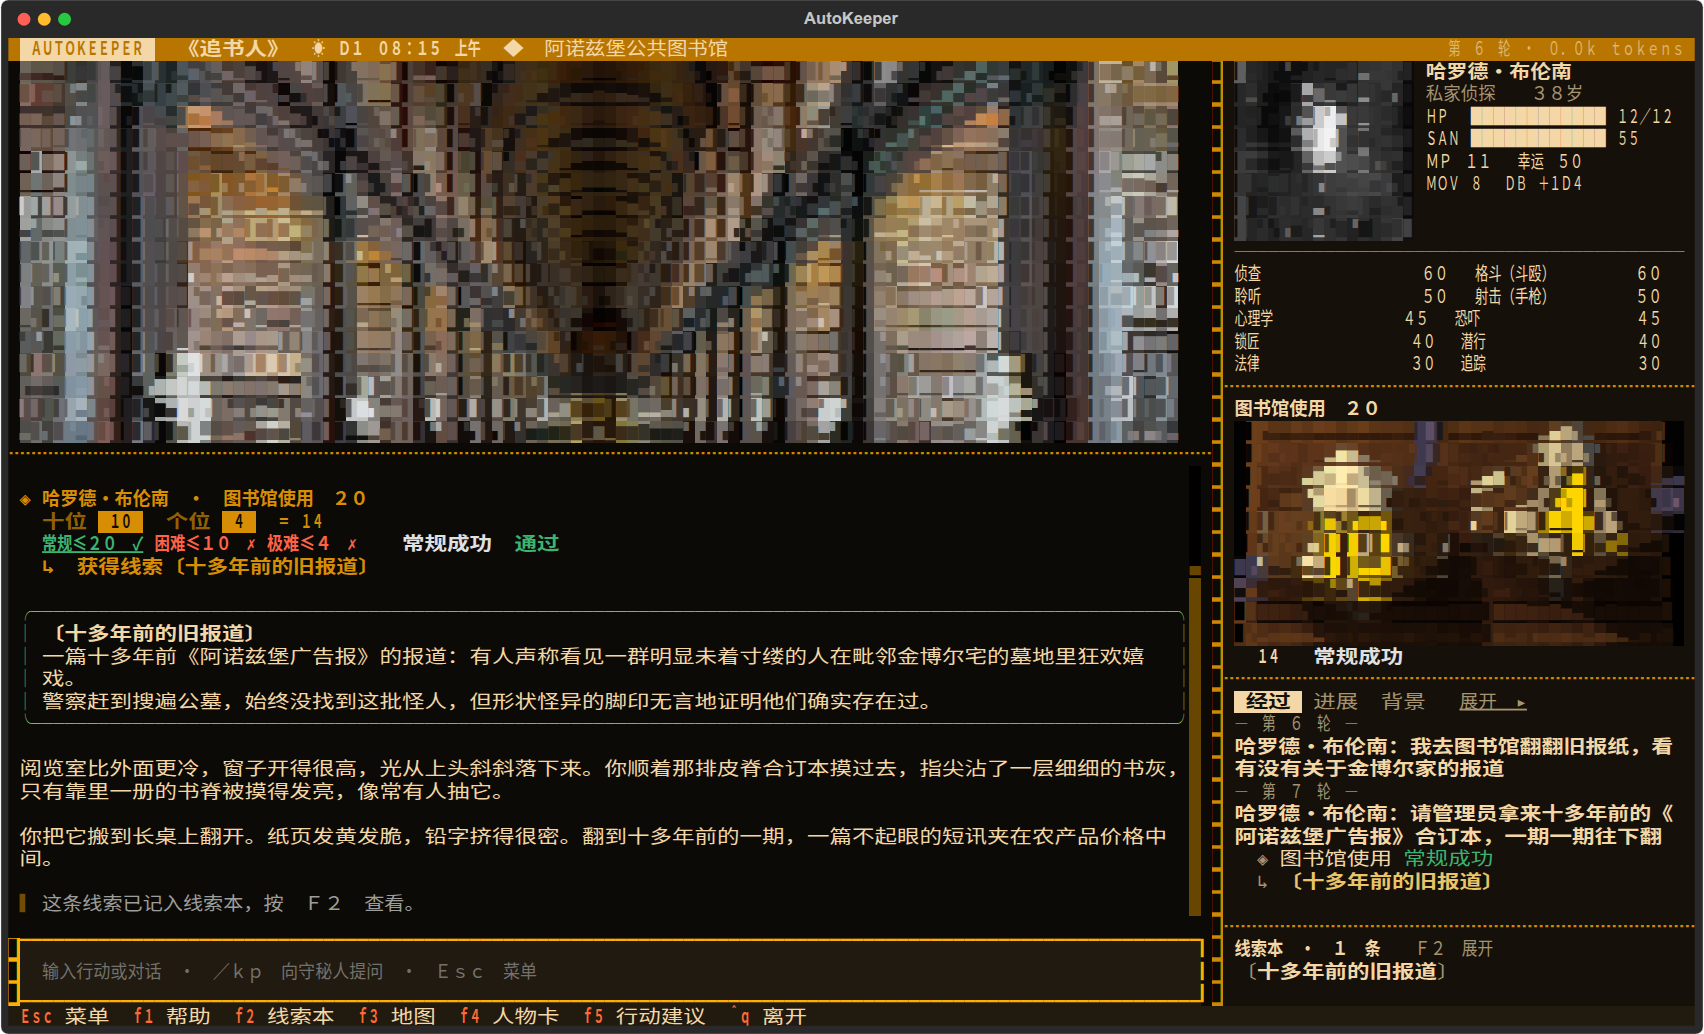
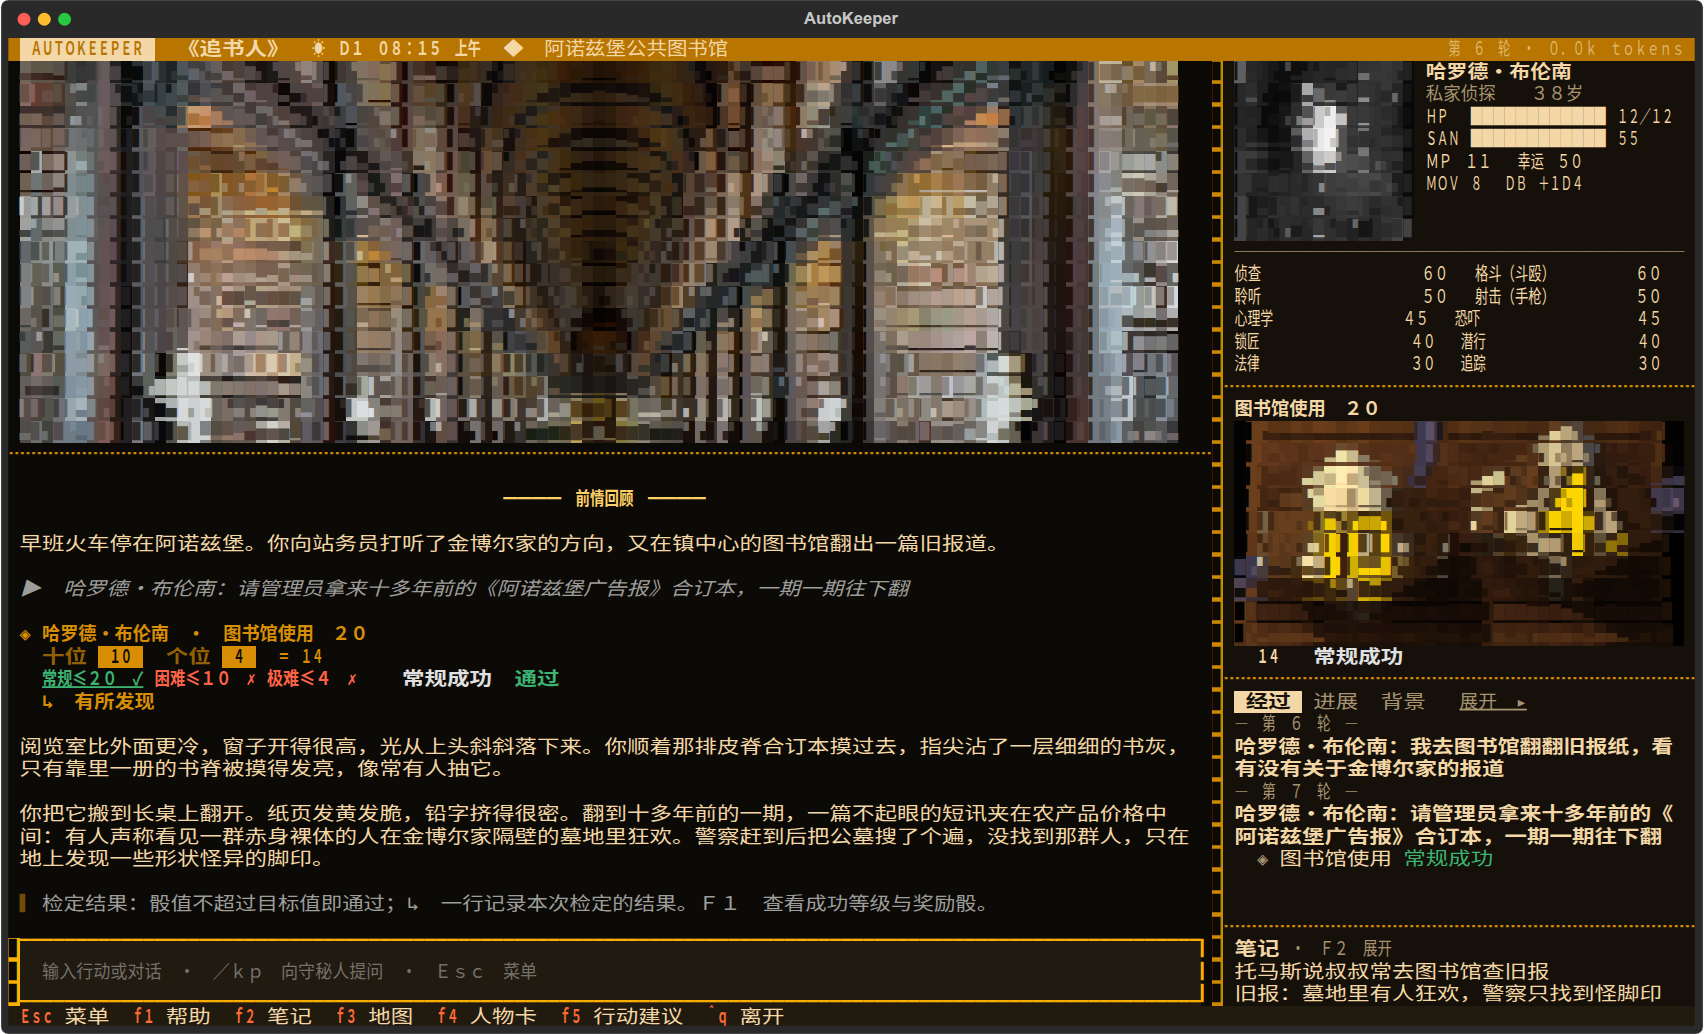
文档：README、玩法说明、展示页与更新日志改写线索与笔记；重拍调查桌面与地图截图，截图脚本改成守秘人讲出旧报内容、右栏是玩家自己的笔记

diff --git a/docs/index.html b/docs/index.html
@@ -27,7 +27,7 @@
             <h2>中文 CoC 7 版终端跑团</h2>
             <p>AutoKeeper 是基于《克苏鲁的呼唤》第 7 版规则的中文终端跑团程序。玩家扮演调查员，以自然语言描述行动；AI 担任守秘人，负责场景叙述、NPC 扮演与检定裁定。支持单人游玩、AI 同伴和多人联机。</p>
             <p>开局叙事结合模组背景与调查员经历展开，调查过程保留主线之外的日常活动与探索空间。《追书人》以早班火车抵达阿诺兹堡为起点：托马斯的家位于小镇尽头的公墓旁，玩家可在途中问路、用餐，或前往图书馆查阅旧报。对于原作未覆盖的行动，守秘人可即兴补充人物、地点和支线，并将其写入本局记录；严格模式则限制对原作的扩展。</p>
-            <p>检定采用物理模拟的十面骰，由玩家操作；消耗幸运与孤注一掷也由玩家决定，调查陷入僵局时可以进行灵感检定。系统按规则结算理智、伤势和成长，记录已发现的线索、手稿及人物信息，并在每回合结束后自动保存进度。</p>
+            <p>检定采用物理模拟的十面骰，由玩家操作；消耗幸运与孤注一掷也由玩家决定，调查陷入僵局时可以进行灵感检定。系统按规则结算理智、伤势和成长；查到的内容由守秘人在叙述中讲出，玩家在笔记里自行记录；手稿与人物信息随存档保存，每回合结束后自动保存进度。</p>
             <h3>战斗与追逐</h3>
             <p>战斗与追逐按第 7 版规则逐轮结算。玩家从列出的行动中选择，也可以自行描述；被攻击时的应对可以预先设定，危险升高时才会询问。追逐沿地图上的路线进行，包括险阻、路障、躲藏与跟丢。伤势、弹药和掉落的武器记入本局的世界记录。</p>
             <h3>彩色字符画与场景表现</h3>

diff --git a/dev/screenshots.py b/dev/screenshots.py
@@ -166,12 +166,15 @@ async def _developer(app, pilot, screen, m):
 
 LIBRARY = ("阅览室比外面更冷，窗子开得很高，光从上头斜斜落下来。你顺着那排皮脊合订本摸过去，指尖沾了一层细细的书灰，"
            "只有靠里一册的书脊被摸得发亮，像常有人抽它。\n\n"
-           "你把它搬到长桌上翻开。纸页发黄发脆，铅字挤得很密。翻到十多年前的一期，一篇不起眼的短讯夹在农产品价格中间。")
+           "你把它搬到长桌上翻开。纸页发黄发脆，铅字挤得很密。翻到十多年前的一期，一篇不起眼的短讯夹在农产品价格中间："
+           "有人声称看见一群赤身裸体的人在金博尔家隔壁的墓地里狂欢。警察赶到后把公墓搜了个遍，没找到那群人，"
+           "只在地上发现一些形状怪异的脚印。")
+NOTES = "托马斯说叔叔常去图书馆查旧报\n旧报：墓地里有人狂欢，警察只找到怪脚印\n要查：那些脚印"
 
 
 async def _library(app, pilot, screen, m):
-    """A check in the library as a turn shows it: the action, the dice thrown for real, the clue they
-    found and the keeper's telling."""
+    """A check in the library as a turn shows it: the action, the dice thrown for real, what they led to
+    and the keeper's telling of what was found (no clue card: the player's own notes in the column)."""
     from rich.text import Text
 
     from autokeeper.engine.game import _check_view
@@ -185,12 +188,11 @@ async def _library(app, pilot, screen, m):
         seed += 1  # a throw that passes plainly: the same picture every time
     await screen.handle({"type": "dice", "who": inv.name, **_check_view(check)})
     await pilot.pause(4.0)  # the dice at rest
-    clue = next(c for c in m.clues if c.id == "c_library_article")
-    await screen.handle({"type": "outcome", "who": inv.name, "lines": [f"获得线索〔{clue.title}〕"]})
-    screen.state.clues.append(clue.id)  # found, as the turn would have it before the screen hears of it
-    await screen.handle({"type": "clue", "id": clue.id, "title": clue.title, "text": clue.text.strip()})
+    await screen.handle({"type": "outcome", "who": inv.name, "lines": ["有所发现"]})
+    screen.state.clues.append("c_library_article")  # found, as the turn would have it; the telling says what
     await screen.handle({"type": "keeper_start"})
     await screen.handle({"type": "keeper_end", "text": LIBRARY})
+    screen.keep_notes(NOTES)
 
 
 async def _talk(app, pilot, screen, m):

diff --git a/src/autokeeper/tui/modals/guide.py b/src/autokeeper/tui/modals/guide.py
@@ -211,7 +211,7 @@ PAGES = [
 
 ## 笔记
 
-**F2** 打开笔记，可以自由书写，按 **Esc** 保存并关闭，按 **Tab** 翻到「资料」页。在输入框输入 `/记 内容`，可把这一行记到笔记末尾，不占回合，守秘人讲述时也能用。右栏显示笔记的开头几行，点击可打开笔记。
+**F2** 打开笔记，可以自由书写，按 **Esc** 或再按 **F2** 保存并关闭，按 **Tab** 翻到「资料」页。在输入框输入 `/记 内容`，可把这一行记到笔记末尾，不占回合，守秘人讲述时也能用。右栏显示笔记的开头几行，点击可打开笔记。
 
 笔记随存档保存。联机时笔记只保存在自己的电脑上，不会发给房主或其他玩家；网页加入的玩家关闭或刷新页面后，笔记即清空。观战时没有笔记。
 

diff --git a/README.md b/README.md
@@ -38,7 +38,7 @@ AutoKeeper 是一款采用《克苏鲁的呼唤》第 7 版规则的中文跑团
 当前版本的战斗、追逐与规则系统见 [0.0.4 更新记录](CHANGELOG.md#0042026-10-22)，世界记录与统一主持从 0.0.3 引入。**0.0.4 不读取旧版本存档，原文件会保留。**
 
 <p align="center">
-  <a href="docs/img/game.png"><img src="https://raw.githubusercontent.com/satoshinji2992/autokeeper/main/docs/img/game.png" width="100%" alt="追书人实机：在图书馆查旧报，图书馆使用检定的物理十面骰与得到的线索，右侧是人物状态和调查经过"></a>
+  <a href="docs/img/game.png"><img src="https://raw.githubusercontent.com/satoshinji2992/autokeeper/main/docs/img/game.png" width="100%" alt="追书人实机：在图书馆查旧报，图书馆使用检定的物理十面骰，守秘人讲出旧报上的内容；右侧是人物状态、调查经过和玩家自己的笔记"></a>
   <br><sub>《追书人》实机画面：在阿诺兹堡图书馆查阅旧报、投掷物理十面骰完成检定，右侧同步记录状态与调查经过。</sub>
 </p>
 
@@ -48,7 +48,7 @@ AutoKeeper 是一款采用《克苏鲁的呼唤》第 7 版规则的中文跑团
 
 需要检定时，你会亲手投掷 3D 物理模拟的十面骰。失败后，可以选择花费幸运，或说明新的尝试方式，承担「孤注一掷」的风险；守秘人据此复核，结算实际耗时与后果。调查陷入僵局时，可按 `Ctrl+L` 请求灵感检定，获得关于遗漏线索的提示。理智损失、临时与不定性疯狂、重伤和幕间成长也有对应的结算。持有规则书与守秘人卡组时，还可导入游戏，供裁定查询原文，并在疯狂与惨事结算时抽卡。
 
-收集到的剪报与信件可以随时展开，阅读原文、查看原图。地图记录去过和听说过的地点，线索本与人物卡保存调查进展和「本局经历」。每回合自动存档，关闭终端后，下次可从原处继续。
+查到的东西由守秘人在叙述里讲出，NPC 知道的事由他们亲口说出，游戏不替玩家把线索整理成卡片或清单：按 F2 打开笔记自己记录，或在输入框输入 `/记 内容` 记下一行。收集到的剪报与信件可以随时在笔记的「资料」页展开，阅读原文、查看原图。地图记录去过和听说过的地点，人物卡保存「本局经历」。每回合自动存档，关闭终端后，下次可从原处继续。
 
 <p align="center">
   <a href="docs/img/paper.png"><img src="https://raw.githubusercontent.com/satoshinji2992/autokeeper/main/docs/img/paper.png" width="100%" alt="道格拉斯·金博尔的日记：米色纸张、红色页边、斜体手写正文"></a>
@@ -57,7 +57,7 @@ AutoKeeper 是一款采用《克苏鲁的呼唤》第 7 版规则的中文跑团
 
 <p align="center">
   <a href="docs/img/map.png"><img src="https://raw.githubusercontent.com/satoshinji2992/autokeeper/main/docs/img/map.png" width="100%" alt="冬雪之下的彩绘地图：主街、诊所、教堂、邮局与农场之间的土路，右侧是主街的说明与去各处的路程"></a>
-  <br><sub>彩绘调查地图：只画走过和听说过的地方，地面、土路和雾都由程序生成；右侧是地点的所见、遇到的人、找到的线索和到各处的路程，按 G 即可动身。</sub>
+  <br><sub>彩绘调查地图：只画走过和听说过的地方，地面、土路和雾都由程序生成；右侧是地点的所见、遇到的人和到各处的路程，按 G 即可动身。</sub>
 </p>
 
 ## 守秘人与世界记录
@@ -183,7 +183,7 @@ autokeeper generate "1931 年上海，一张没有标签的唱片" --id changpia
   <br><sub>《冬雪之下》开房间：左上排座位（玩家或 AI），左下为座位选调查员，右侧预览人物卡。</sub>
 </p>
 
-同一轮中，各位玩家可按任意顺序提交行动，视为同时发生。守秘人依次裁定，再统一叙述本轮经过；讲述期间提交的内容排入下一轮。战斗中，每位玩家自行掷骰、选择应对，限时窗口显示剩余秒数。未发现的线索与守秘人资料保留在房主端，掉线后可重新连接并回到原座位。局域网及 Radmin、ZeroTier 等虚拟局域网的连接方法见[联机说明](docs/playing.md#联机)。
+同一轮中，各位玩家可按任意顺序提交行动，视为同时发生。守秘人依次裁定，再统一叙述本轮经过；讲述期间提交的内容排入下一轮。战斗中，每位玩家自行掷骰、选择应对，限时窗口显示剩余秒数。线索的标题与原文和守秘人资料保留在房主端，每位玩家的笔记只保存在自己的电脑上；掉线后可重新连接并回到原座位。局域网及 Radmin、ZeroTier 等虚拟局域网的连接方法见[联机说明](docs/playing.md#联机)。
 
 队友之间可以直接交谈：以引号或“对某某说”“对大家说”开头的发言，会立即显示给全桌、写入记录，不占行动名额，也不另请 KP 回应；AI 同伴和在场 NPC 能在后续回应中接续。场外聊天使用 `//` 或整句双括号，`（压低声音）别进去。` 这类带动作的台词仍按角色发言处理。单人带 AI 队友时采用同样的区分。
 

diff --git a/CHANGELOG.md b/CHANGELOG.md
@@ -2,9 +2,17 @@
 
 ## 未发布
 
+### 线索与笔记
+
+- 线索不再以卡片或清单交给玩家。故事里的线索卡、检定结果下的「获得线索〔…〕」、右栏的线索本、F2 线索本、地图上的「线索」一行，以及人物卡「本局经历」和读档预览里的线索标题都已去掉；检定结果下只写「有所发现」或谁松了口，灵感检定也不再写出想到的是哪一条。引擎照旧记录找到了哪些线索，前置条件、灵感检定、导演安排和结局照常判断；结局后的复盘仍列出找到和遗漏的线索。
+- 守秘人把每一轮发现的内容讲进叙述：调查员实际看到、读到、听到或想到了什么，照原文写具体，不概括成结论，不点明是线索；NPC 已经在台词里说出的，叙述不再复述；随线索拿到的手稿原文已在玩家手里，叙述只交代怎么拿到、看到。对话回合里还有没人说到的发现时，守秘人接着讲一段。
+- F2 改为笔记：「笔记」页由玩家自由书写，「资料」页列出拿到的信件、日记、地图等手稿，选中即可重看。Esc 或再按 F2 保存并关闭。输入「/记 内容」可把一行记到笔记末尾，不占回合，守秘人讲述时也能用。右栏显示笔记的开头几行，没有笔记时显示「笔记 · F2 记录」，读档预览里也有。本地游戏的笔记随存档保存；观战没有笔记。
+- 前情回顾、「进展」页、记录员的摘要、F5 行动建议和 AI 同伴只读讲给玩家的叙述与对话，不再读到线索的原文。
+
 ### 联机
 
 - 从标题页开房间的房主在自己的游戏画面里也能用开发者模式：F12、设置里的开关、开发者面板、完整记录网页和规则插件（含一句话添加自定义规则），读的是房间里运行的这一局；其他玩家和观战者没有这些入口，也收不到相关内容。
+- 线索的标题和原文不再发给任何屏幕，晚到的人收到的记录里也没有；找到的线索只带去发现的地点和提到的地点、物件，各屏幕的地图照旧一致；结局后复盘照常打开全书。每位玩家的笔记只保存在自己的电脑上，按这一局和座位分开，坐回原座后恢复，不发给房主，也不发给其他玩家；浏览器加入的座位，笔记只保留到页面关闭。房主在本机玩过的存档里带着的笔记同样不会发出去。
 
 ## 0.0.4（2026-10-22）
 

diff --git a/docs/playing.md b/docs/playing.md
@@ -163,7 +163,7 @@ autokeeper --preset deepseek --budget 5
 
 找到的线索不会以卡片或清单显示。查到的东西由守秘人在叙述里讲出，NPC 知道的事由 NPC 在台词里亲口说出；检定结果下只写「有所发现」或谁松了口。信件、日记、地图这类手稿照常弹出原文，之后在笔记的「资料」页重看。引擎仍然记录找到了哪些线索，前置条件、灵感检定、导演安排和结局照常判断；结局后的复盘会列出找到和遗漏的线索。
 
-按 F2 打开笔记：「笔记」页自由书写，Esc 保存并关闭，Tab 翻到「资料」页。在输入框输入 `/记 内容` 可把一行记到笔记末尾。右栏显示笔记的开头几行，读档列表的预览里也有。本地游戏的笔记随存档保存；联机时每位玩家的笔记只保存在自己的电脑上，见[联机](#联机)。观战时没有笔记。
+按 F2 打开笔记：「笔记」页自由书写，Esc 或再按 F2 保存并关闭，Tab 翻到「资料」页。在输入框输入 `/记 内容` 可把一行记到笔记末尾。右栏显示笔记的开头几行，读档列表的预览里也有。本地游戏的笔记随存档保存；联机时每位玩家的笔记只保存在自己的电脑上，见[联机](#联机)。观战时没有笔记。
 
 ### 人物、记录和画面
 
